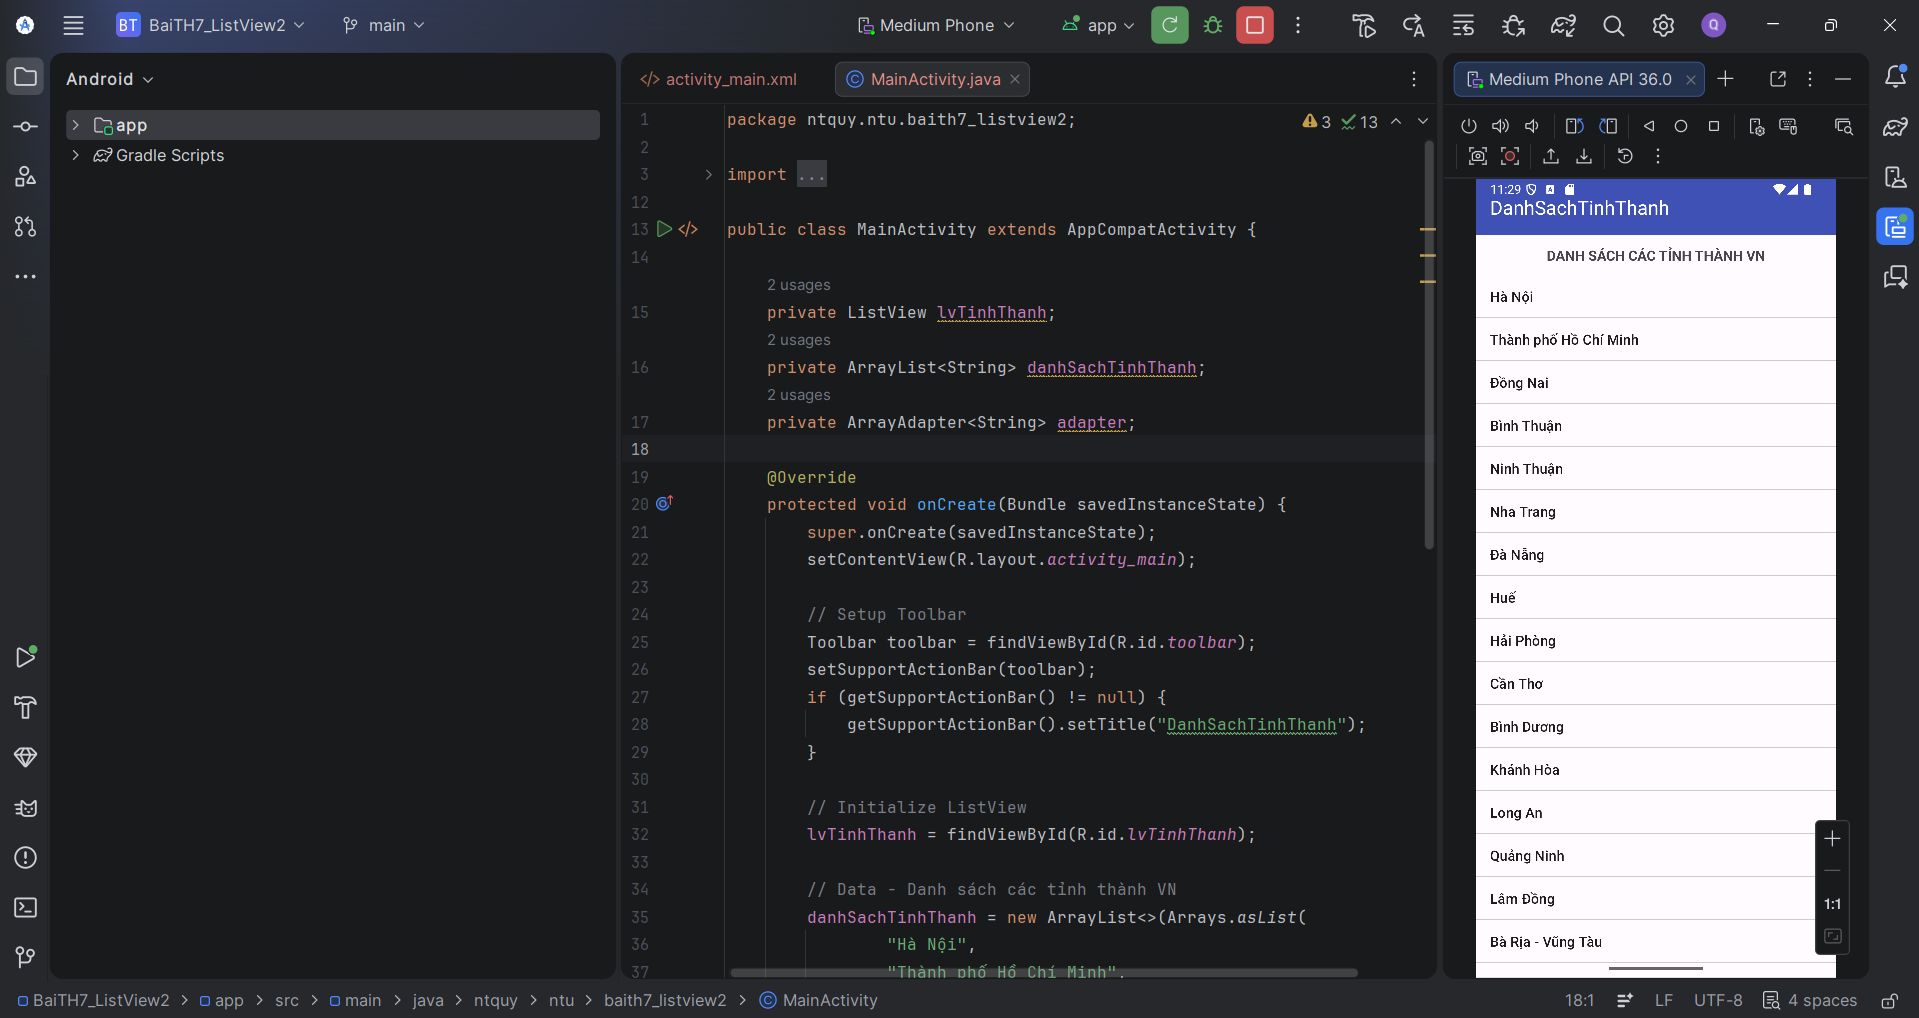
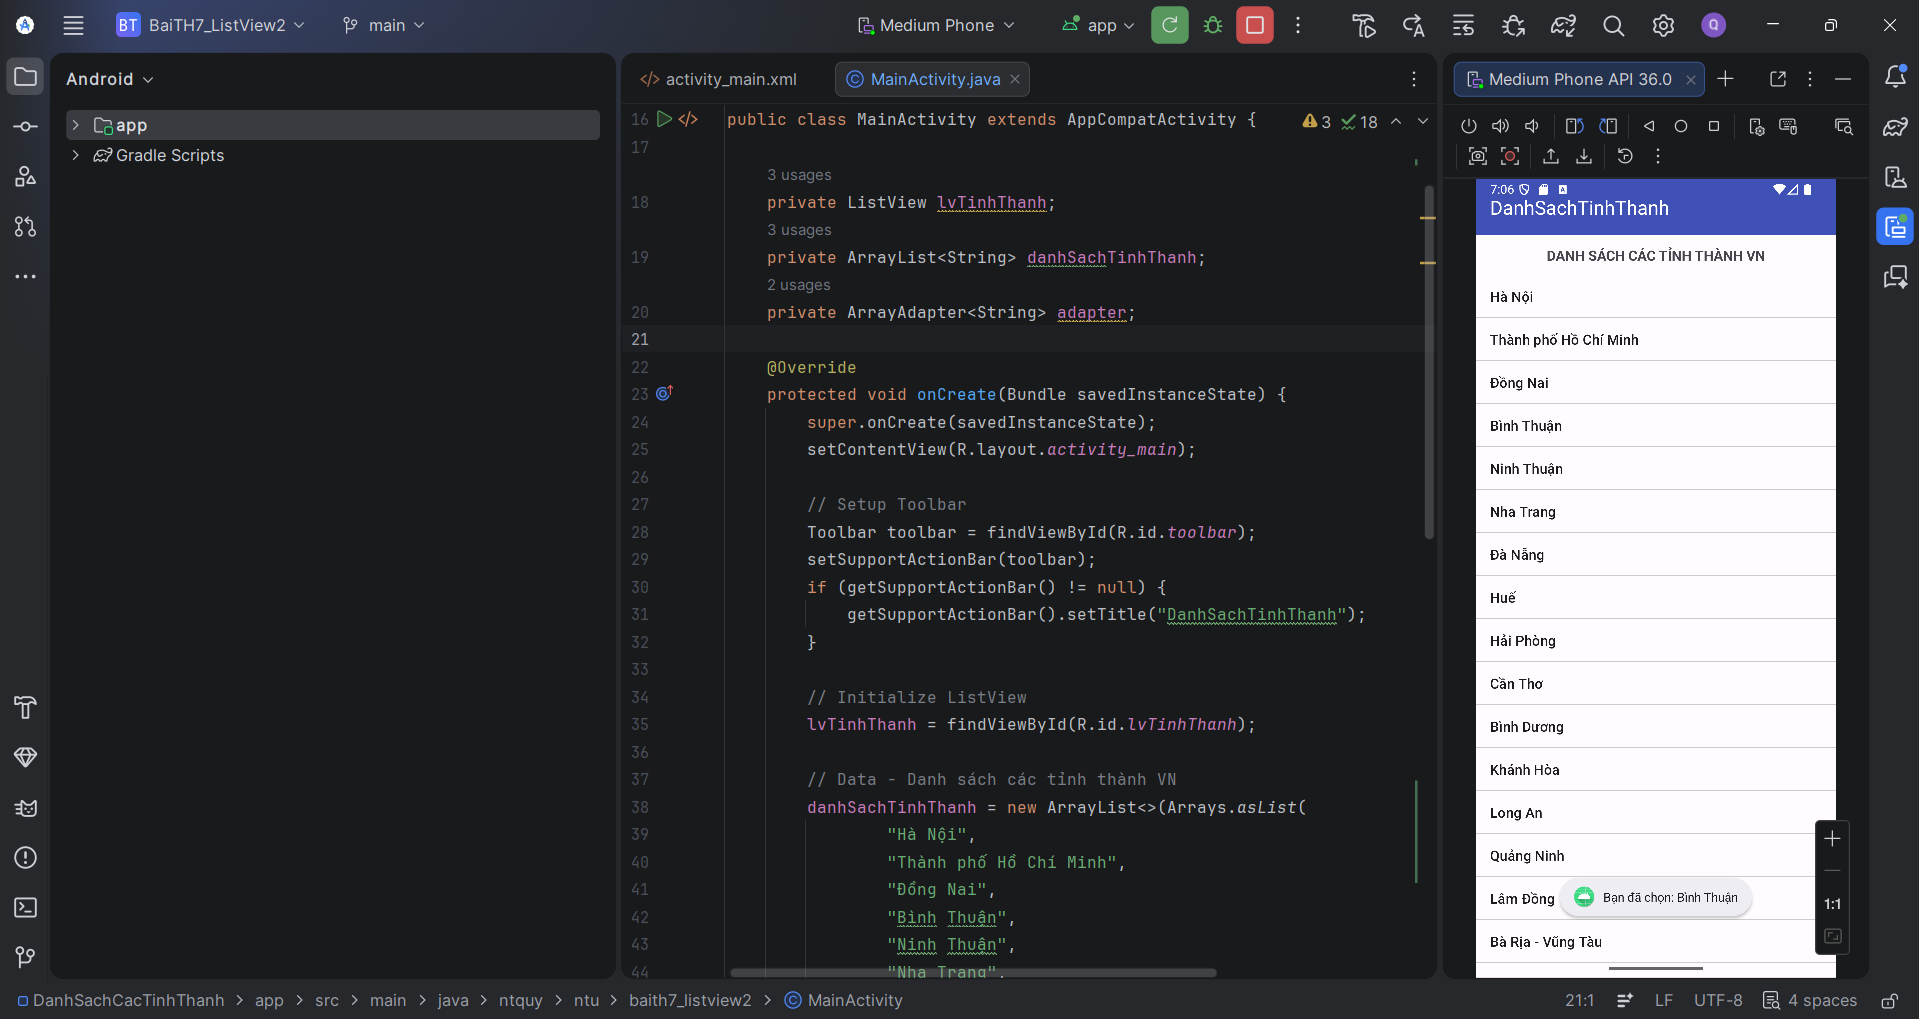
thêm Xử lý sự kiện AdaterView.OnItemClickListener

diff --git a/DanhSachCacTinhThanh/app/src/main/java/ntquy/ntu/baith7_listview2/MainActivity.java b/DanhSachCacTinhThanh/app/src/main/java/ntquy/ntu/baith7_listview2/MainActivity.java
@@ -1,8 +1,11 @@
 package ntquy.ntu.baith7_listview2;
 
 import android.os.Bundle;
+import android.view.View;
+import android.widget.AdapterView;
 import android.widget.ArrayAdapter;
 import android.widget.ListView;
+import android.widget.Toast;
 
 import androidx.appcompat.app.AppCompatActivity;
 import androidx.appcompat.widget.Toolbar;
@@ -60,5 +63,15 @@ public class MainActivity extends AppCompatActivity {
                 android.R.layout.simple_list_item_1, danhSachTinhThanh);
 
         lvTinhThanh.setAdapter(adapter);
+
+        // Xử lý sự kiện khi người dùng click vào một tỉnh thành
+        lvTinhThanh.setOnItemClickListener(new AdapterView.OnItemClickListener() {
+            @Override
+            public void onItemClick(AdapterView<?> parent, View view, int position, long id) {
+                String tinhThanh = danhSachTinhThanh.get(position);
+                Toast.makeText(MainActivity.this,
+                        "Bạn đã chọn: " + tinhThanh, Toast.LENGTH_SHORT).show();
+            }
+        });
     }
 }
